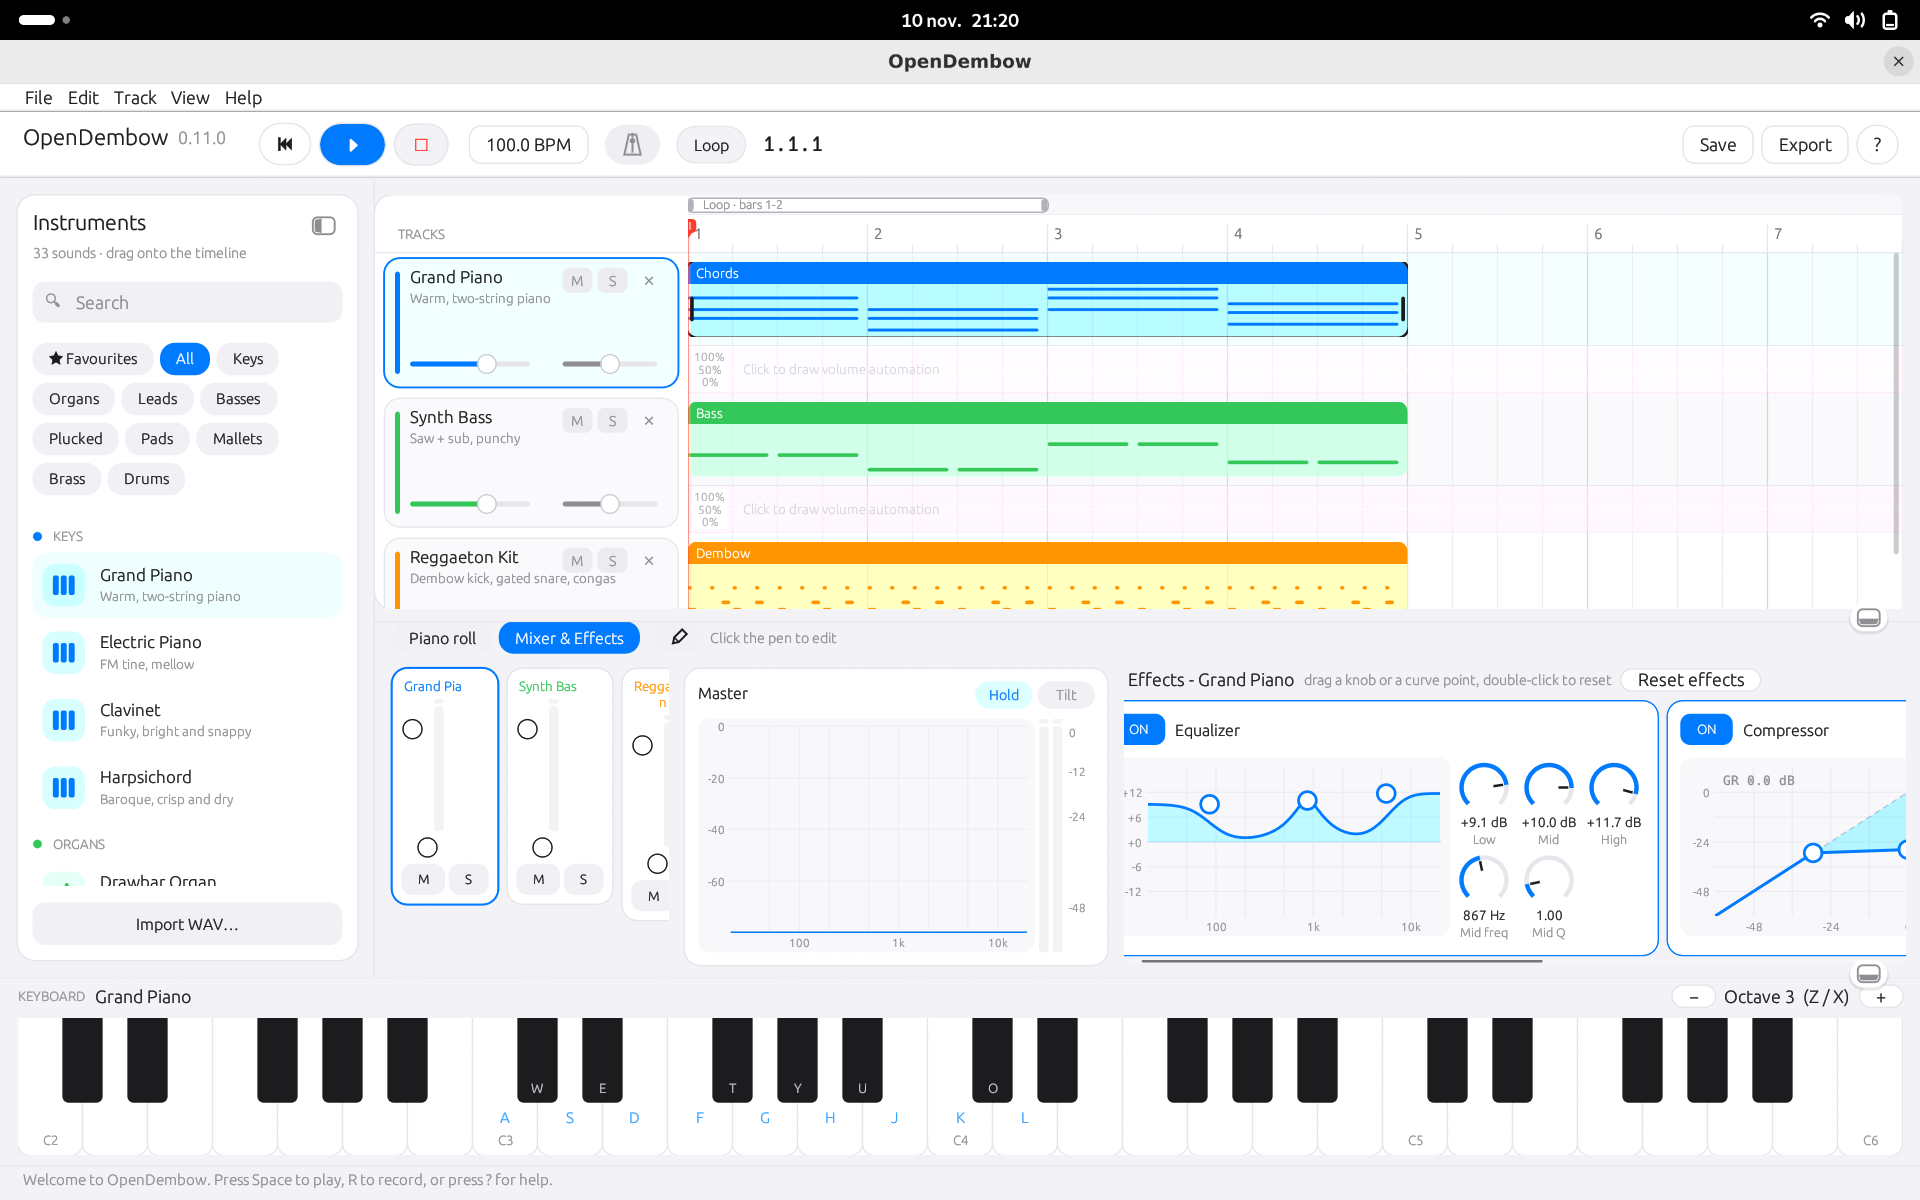
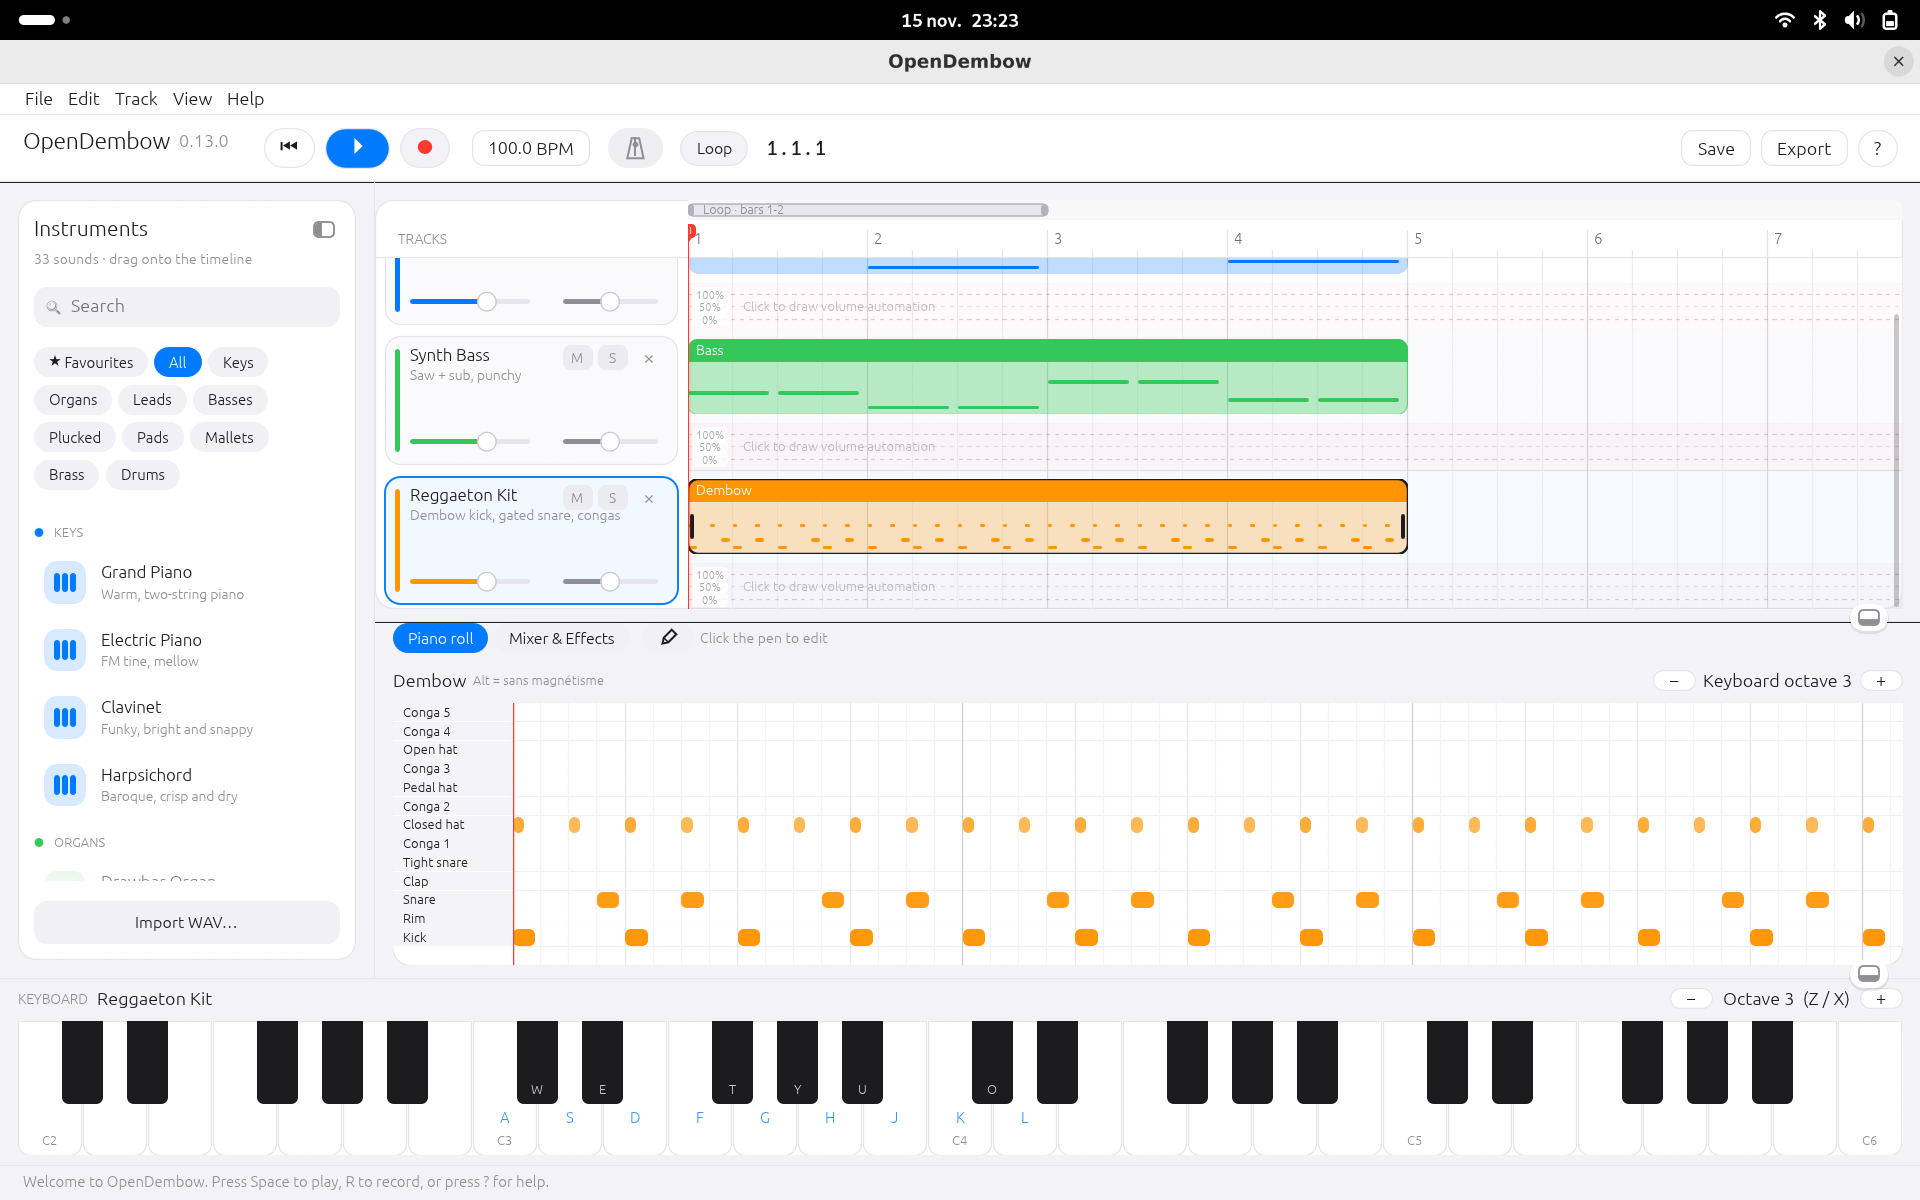
Opendembow 0.13 is out git add .!

diff --git a/src/pianoroll.rs b/src/pianoroll.rs
@@ -7,16 +7,19 @@
 //! - Suppr/Retour arrière, Ctrl+D (dupliquer), Ctrl+U (quantifier), Échap
 //! - Flèches : ↑↓ demi-ton, Maj+↑↓ octave, ←→ pas de grille, Maj+←→ longueur
 //! - vélocité : badge « V » sur la note survolée / sélectionnée (voir velocity.rs)
+//! - pistes de batterie : lignes = pads nommés (36-59), un clic ajoute un coup
 
 use crate::project::*;
 use crate::theme::*;
 use crate::{App, Drag};
 use eframe::egui::{
-    self, Align2, Color32, FontId, Key, Modifiers, Pos2, Rect, RichText, CornerRadius, Sense, pos2,
+    self, Align2, Color32, CornerRadius, FontId, Key, Modifiers, Pos2, Rect, RichText, Sense, pos2,
     vec2,
 };
 
 const KEYS_W: f32 = 62.0;
+/// Colonne des pads sur une piste de batterie (plus large : noms complets).
+const PADS_W: f32 = 96.0;
 pub(crate) const ROW_H: f32 = 15.0;
 const MIN_LEN_FREE: f64 = 1.0 / 32.0;
 
@@ -179,6 +182,9 @@ impl App {
         };
         let title = self.project.tracks[t].clips[c].name.clone();
         let col = PALETTE[self.project.tracks[t].color % 8];
+        // piste de batterie : lignes = pads nommés (MIDI 36-59), pas de touches de piano
+        let drum = self.drum_map(t);
+        let (kmin, kmax): (i32, i32) = if drum.is_some() { (36, 59) } else { (0, 127) };
 
         // --- synchronisation de la sélection avec App::sel_note ---
         st.sel = self.sel_notes.clone();
@@ -194,36 +200,38 @@ impl App {
             ui.add_space(14.0);
             ui.label(RichText::new(title).strong());
 
-            // Scale selector
-            ui.add_space(10.0);
-            ui.label(RichText::new("Scale:").size(11.5).color(GREY));
-            egui::ComboBox::from_id_salt("scale_root_combo")
-                .width(42.0)
-                .selected_text(NOTE_NAMES[st.root as usize])
-                .show_ui(ui, |ui| {
-                    for (i, name) in NOTE_NAMES.iter().enumerate() {
-                        ui.selectable_value(&mut st.root, i as u8, *name);
-                    }
-                });
-            egui::ComboBox::from_id_salt("scale_type_combo")
-                .width(125.0)
-                .selected_text(st.scale.name())
-                .show_ui(ui, |ui| {
-                    ui.selectable_value(&mut st.scale, Scale::All, Scale::All.name());
-                    ui.selectable_value(&mut st.scale, Scale::Major, Scale::Major.name());
-                    ui.selectable_value(&mut st.scale, Scale::Minor, Scale::Minor.name());
-                    ui.selectable_value(
-                        &mut st.scale,
-                        Scale::PentatonicMajor,
-                        Scale::PentatonicMajor.name(),
-                    );
-                    ui.selectable_value(
-                        &mut st.scale,
-                        Scale::PentatonicMinor,
-                        Scale::PentatonicMinor.name(),
-                    );
-                    ui.selectable_value(&mut st.scale, Scale::Blues, Scale::Blues.name());
-                });
+            // Scale selector (sans objet sur une batterie)
+            if drum.is_none() {
+                ui.add_space(10.0);
+                ui.label(RichText::new("Scale:").size(11.5).color(GREY));
+                egui::ComboBox::from_id_salt("scale_root_combo")
+                    .width(42.0)
+                    .selected_text(NOTE_NAMES[st.root as usize])
+                    .show_ui(ui, |ui| {
+                        for (i, name) in NOTE_NAMES.iter().enumerate() {
+                            ui.selectable_value(&mut st.root, i as u8, *name);
+                        }
+                    });
+                egui::ComboBox::from_id_salt("scale_type_combo")
+                    .width(125.0)
+                    .selected_text(st.scale.name())
+                    .show_ui(ui, |ui| {
+                        ui.selectable_value(&mut st.scale, Scale::All, Scale::All.name());
+                        ui.selectable_value(&mut st.scale, Scale::Major, Scale::Major.name());
+                        ui.selectable_value(&mut st.scale, Scale::Minor, Scale::Minor.name());
+                        ui.selectable_value(
+                            &mut st.scale,
+                            Scale::PentatonicMajor,
+                            Scale::PentatonicMajor.name(),
+                        );
+                        ui.selectable_value(
+                            &mut st.scale,
+                            Scale::PentatonicMinor,
+                            Scale::PentatonicMinor.name(),
+                        );
+                        ui.selectable_value(&mut st.scale, Scale::Blues, Scale::Blues.name());
+                    });
+            }
 
             ui.label(
                 RichText::new("Alt = sans magnétisme")
@@ -246,9 +254,11 @@ impl App {
         let full = Rect::from_min_max(pos2(full.left() + 14.0, full.top()), full.right_bottom());
         // la grille occupe toute la hauteur (la vélocité passe par le badge « V »)
         let rect = full;
-        let keys_r = Rect::from_min_size(rect.min, vec2(KEYS_W, rect.height()));
-        let grid = Rect::from_min_max(pos2(rect.left() + KEYS_W, rect.top()), rect.right_bottom());
+        let keys_w = if drum.is_some() { PADS_W } else { KEYS_W };
+        let keys_r = Rect::from_min_size(rect.min, vec2(keys_w, rect.height()));
+        let grid = Rect::from_min_max(pos2(rect.left() + keys_w, rect.top()), rect.right_bottom());
         let rows = ((rect.height() / ROW_H).floor() as i32).max(1);
+        let rows = if drum.is_some() { rows.min(24) } else { rows };
         let gr = ui.interact(grid, ui.scope_id().with("roll"), Sense::click_and_drag());
         let kr = ui.interact(keys_r, ui.scope_id().with("rollkeys"), Sense::click_and_drag());
 
@@ -266,7 +276,11 @@ impl App {
                 self.pr_top += (scroll.y / ROW_H).round() as i32;
             }
         }
-        self.pr_top = self.pr_top.clamp(rows - 1, 127);
+        // batterie : la fenêtre reste dans 36..=59 ; sinon 0..=127 comme avant
+        self.pr_top = self
+            .pr_top
+            .min(kmax)
+            .max((kmin + rows - 1).min(kmax));
         let (top, ppb, sx) = (self.pr_top, self.pr_ppb, self.pr_scroll);
         let gx = |b: f64| grid.left() + ((b - sx) as f32) * ppb;
         let beat_at = |x: f32| ((x - grid.left()) / ppb) as f64 + sx;
@@ -340,7 +354,7 @@ impl App {
                         self.audition(t, n.key);
                     }
                 } else if self.pen {
-                    let key = key_at(p.y).clamp(0, 127) as u8;
+                    let key = key_at(p.y).clamp(kmin, kmax) as u8;
                     let start = qf(beat_at(p.x)).max(0.0);
                     self.checkpoint();
                     if let Some(n) = self.notes_mut(t, c) {
@@ -422,7 +436,9 @@ impl App {
                                         .max()
                                         .unwrap_or(127);
                                     let ds = (want_start - pn.start).max(-min_s);
-                                    let dk = (want_key - pn.key as i32).clamp(-min_k, 127 - max_k);
+                                    let dk = (want_key - pn.key as i32)
+                                        .min(kmax - max_k)
+                                        .max(kmin - min_k);
                                     if ds != 0.0 || dk != 0 {
                                         for &i in &group {
                                             if let Some(n) = v.get_mut(i) {
@@ -531,10 +547,11 @@ impl App {
                             self.audition(t, k);
                         }
                     }
-                    None if self.pen || gr.double_clicked() => {
-                        let key = key_at(p.y).clamp(0, 127) as u8;
+                    // batterie : un simple clic sur une case vide ajoute un coup (comme un séquenceur)
+                    None if self.pen || gr.double_clicked() || drum.is_some() => {
+                        let key = key_at(p.y).clamp(kmin, kmax) as u8;
                         let start = qf(beat_at(p.x)).max(0.0);
-                        let len = self.last_len;
+                        let len = if drum.is_some() { g } else { self.last_len };
                         self.checkpoint();
                         if let Some(n) = self.notes_mut(t, c) {
                             n.push(Note {
@@ -587,7 +604,7 @@ impl App {
         }
         let hk = if kr.is_pointer_button_down_on() {
             kr.interact_pointer_pos()
-                .map(|p| key_at(p.y).clamp(0, 127) as u8)
+                .map(|p| key_at(p.y).clamp(kmin, kmax) as u8)
         } else {
             None
         };
@@ -631,12 +648,12 @@ impl App {
                 0
             };
             if semis != 0 && !sel.is_empty() {
-                // ne dépasse pas les bornes 0..127 en gardant les intervalles
+                // ne dépasse pas les bornes (0..127, ou 36..59 pour une batterie) en gardant les intervalles
                 let (lo, hi) = self.notes_ref(t, c).map_or((0, 127), |v| {
                     let ks = sel.iter().filter_map(|&i| v.get(i)).map(|n| n.key as i32);
                     (ks.clone().min().unwrap_or(0), ks.max().unwrap_or(127))
                 });
-                let d = semis.clamp(-lo, 127 - hi);
+                let d = semis.min(kmax - hi).max(kmin - lo);
                 if d != 0 {
                     self.roll_edit(t, c, &sel, |n| n.key = (n.key as i32 + d) as u8);
                     if let Some(k) = self
@@ -674,7 +691,8 @@ impl App {
         p.rect_stroke(full, 14.0, stroke(1.0, HAIR), egui::StrokeKind::Middle);
         let gp = ui.painter_at(grid);
         let kp = ui.painter_at(keys_r);
-        let drum = self.drum_map(t);
+        // la gamme n'existe pas sur une batterie
+        let scale = if drum.is_some() { Scale::All } else { st.scale };
 
         for r in 0..rows {
             let key = top - r;
@@ -682,13 +700,13 @@ impl App {
                 break;
             }
             let y = grid.top() + r as f32 * ROW_H;
-            let black = matches!(key % 12, 1 | 3 | 6 | 8 | 10);
-            let in_scale = is_in_scale(key as u8, st.scale, st.root);
+            let black = drum.is_none() && matches!(key % 12, 1 | 3 | 6 | 8 | 10);
+            let in_scale = is_in_scale(key as u8, scale, st.root);
 
             let row = Rect::from_min_size(pos2(grid.left(), y), vec2(grid.width(), ROW_H));
 
             // Background color logic: standard chromatic when "All", Ableton-style subtle green tint when a scale is selected
-            let bg_color = if st.scale != Scale::All {
+            let bg_color = if scale != Scale::All {
                 if in_scale {
                     if black {
                         Color32::from_rgb(230, 245, 235)
@@ -707,7 +725,7 @@ impl App {
             };
 
             gp.rect_filled(row, 0.0, bg_color);
-            let line = if key % 12 == 0 {
+            let line = if drum.is_none() && key % 12 == 0 {
                 Color32::from_rgb(214, 214, 220)
             } else {
                 Color32::from_rgb(240, 240, 244)
@@ -720,25 +738,38 @@ impl App {
                 stroke(1.0, line),
             );
 
+            // batterie : colonne de pads nommés au lieu des touches de piano
             if let Some(map) = drum {
-                if !(36..=59).contains(&key) {
-                    gp.rect_filled(row, 0.0, tint(INK, 6));
-                } else if let Some(nm) = crate::drum_names::name(map, key) {
-                    gp.text(
-                        pos2(grid.left() + 8.0, row.center().y),
-                        Align2::LEFT_CENTER,
-                        nm,
-                        FontId::proportional(10.5),
-                        GREY,
-                    );
-                }
+                let down = self.down.contains(&(key as u8));
+                let pad = Rect::from_min_size(pos2(keys_r.left(), y), vec2(keys_w, ROW_H));
+                kp.rect_filled(
+                    pad,
+                    0.0,
+                    if down {
+                        ACCENT
+                    } else {
+                        Color32::from_rgb(244, 244, 248)
+                    },
+                );
+                kp.line_segment(
+                    [pos2(pad.left(), pad.bottom()), pos2(pad.right(), pad.bottom())],
+                    stroke(1.0, Color32::WHITE),
+                );
+                kp.text(
+                    pos2(pad.left() + 8.0, pad.center().y),
+                    Align2::LEFT_CENTER,
+                    crate::drum_names::name(map, key).unwrap_or(""),
+                    FontId::proportional(10.5),
+                    if down { Color32::WHITE } else { INK },
+                );
+                continue;
             }
 
             // Key column (left side piano keys)
             let down = self.down.contains(&(key as u8));
-            let kr_row = Rect::from_min_size(pos2(keys_r.left(), y), vec2(KEYS_W, ROW_H));
+            let kr_row = Rect::from_min_size(pos2(keys_r.left(), y), vec2(keys_w, ROW_H));
 
-            let key_base_color = if st.scale != Scale::All && in_scale {
+            let key_base_color = if scale != Scale::All && in_scale {
                 if down {
                     ACCENT
                 } else {
@@ -754,10 +785,10 @@ impl App {
 
             if black {
                 kp.rect_filled(kr_row, 0.0, Color32::WHITE);
-                let bk = Rect::from_min_size(kr_row.min, vec2(KEYS_W * 0.68, ROW_H));
+                let bk = Rect::from_min_size(kr_row.min, vec2(keys_w * 0.68, ROW_H));
                 kp.rect_filled(bk, 0.0, key_base_color);
 
-                if st.scale != Scale::All {
+                if scale != Scale::All {
                     let full_label = format!(
                         "{}{}",
                         NOTE_NAMES[(key % 12) as usize],
@@ -786,7 +817,7 @@ impl App {
                     stroke(1.0, HAIR),
                 );
 
-                if st.scale != Scale::All {
+                if scale != Scale::All {
                     let full_label = format!(
                         "{}{}",
                         NOTE_NAMES[(key % 12) as usize],
@@ -869,7 +900,12 @@ impl App {
                 };
                 gp.rect_filled(r, CornerRadius::same(4), tint(col, alpha));
                 if selected {
-                    gp.rect_stroke(r, CornerRadius::same(4), stroke(1.5, INK), egui::StrokeKind::Middle);
+                    gp.rect_stroke(
+                        r,
+                        CornerRadius::same(4),
+                        stroke(1.5, INK),
+                        egui::StrokeKind::Middle,
+                    );
                 }
             }
         }

diff --git a/README.md b/README.md
@@ -1,5 +1,5 @@
 
-# OpenDembow 0.12
+# OpenDembow 0.13
 
 ![OpenDembow Interface](images/image1.png)
 
@@ -8,6 +8,9 @@
 ![OpenDembow Interface](images/image2.png)
 
 ![OpenDembow Interface](images/image3.png)
+
+![OpenDembow Interface](images/image5.png)
+
 
 A modern, elegant digital audio workstation written in Rust. Clean light interface, one accent colour, rounded everything - a calmer layout where you can hide what you do not use, see what you hear, and loops that never slip.
 
@@ -37,6 +40,10 @@ rfd = "0.18"
 serde_json = "1.0.154"
 midir = "0.11"
 ```
+
+## What's new in 0.13
+
+- **Drum-focused piano roll:** Drum tracks now use a dedicated pad grid instead of piano keys, with named rows for each drum sound and a clearer visual layout for programming beats.
 
 ## What's new in 0.12
 
@@ -91,7 +98,7 @@ midir = "0.11"
 - **Hideable panels and Focus mode** (0.9): instruments, piano roll & mixer and keyboard can be hidden; View menu, panel icons and shortcuts.
 - **Recording with count-in** (0.7): press `R` or the red button, hear a 4-beat count-in, then play - the notes you play become a new MIDI clip (undo with Ctrl+Z).
 - **MIDI input** (0.7): plug in a MIDI keyboard or controller and pick it in Track > MIDI Input; it plays the selected track and records like the computer keyboard.
-- **Drum names in the piano roll** (0.7): on a drum track every row shows the name of its pad, following the map of the kit.
+- **Drum-focused piano roll** (0.13): drum tracks use a dedicated pad grid instead of piano keys, with each row named for its sound.
 - **Favourite instruments** (0.7): click the star on an instrument, then use the ★ Favourites filter in the browser; favourites are saved in `~/.opendembow_favorites`.
 - **Drums** (0.6): five kits - **Drum Kit**, **808 Kit**, **Trap Kit**, **Reggaeton Kit** (dembow) and **Latin Percussion** (congas, bongos, timbales, shakers).
 - **Instruments added in 0.6**: 808 Bass, Fingered Bass, Electric Guitar, Synth Pluck.
@@ -146,7 +153,7 @@ Notes: the velocity of a MIDI controller is stored in the clip but not yet used 
 
 ## Piano roll
 
-Select a MIDI clip (or double-click an empty lane to create one) to edit its notes in the bottom panel.
+Select a MIDI clip (or double-click an empty lane to create one) to edit its notes in the bottom panel. On drum tracks, the piano roll switches to a dedicated grid of named drum-pad rows instead of piano keys, making each hit easy to identify.
 
 **Drawing and selecting**
 
@@ -187,7 +194,7 @@ Each track has a volume automation lane under its clips, with 0 / 50 / 100 % gui
 
 ## Drums
 
-Add a drum kit track (**Drum Kit**, **808 Kit**, **Trap Kit** or **Reggaeton Kit**) and play it with the on-screen keyboard, your computer keys or the piano roll.
+Add a drum kit track (**Drum Kit**, **808 Kit**, **Trap Kit** or **Reggaeton Kit**) and play it with the on-screen keyboard, your computer keys or the piano roll. In the piano roll, drum tracks show named pad rows in place of piano keys.
 
 Notes are folded into two octaves (MIDI 36-59), so every key of the keyboard plays a drum. The piano roll shows these names next to each row:
 
@@ -325,7 +332,7 @@ The piano roll's note selection and scale choice, the analyzer options (Hold / T
 
 ## Roadmap
 
-Next (0.12.x): automation of pan and effect parameters, MIDI velocity in the live sound, saving the panel layout, LUFS and stereo correlation meters, waveforms with a dB scale.
+Next (0.13.x): automation of pan and effect parameters, MIDI velocity in the live sound, saving the panel layout, LUFS and stereo correlation meters, waveforms with a dB scale.
 
 Later: step sequencer, audio recording, quantization while recording, fold-to-scale in the piano roll, dark theme, a "Designer" synth with filter / envelopes / LFO, sample-based instruments, instrument preview on hover, drag-to-trim clip edges, send effects.
 
